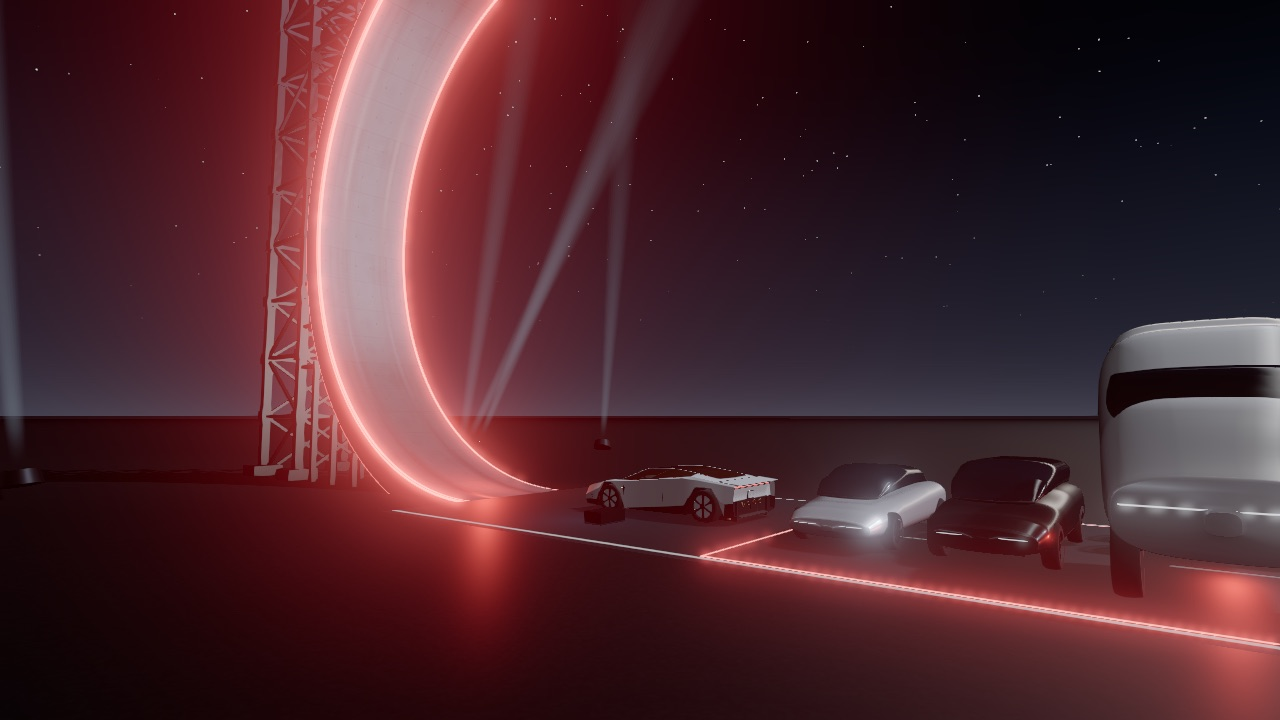
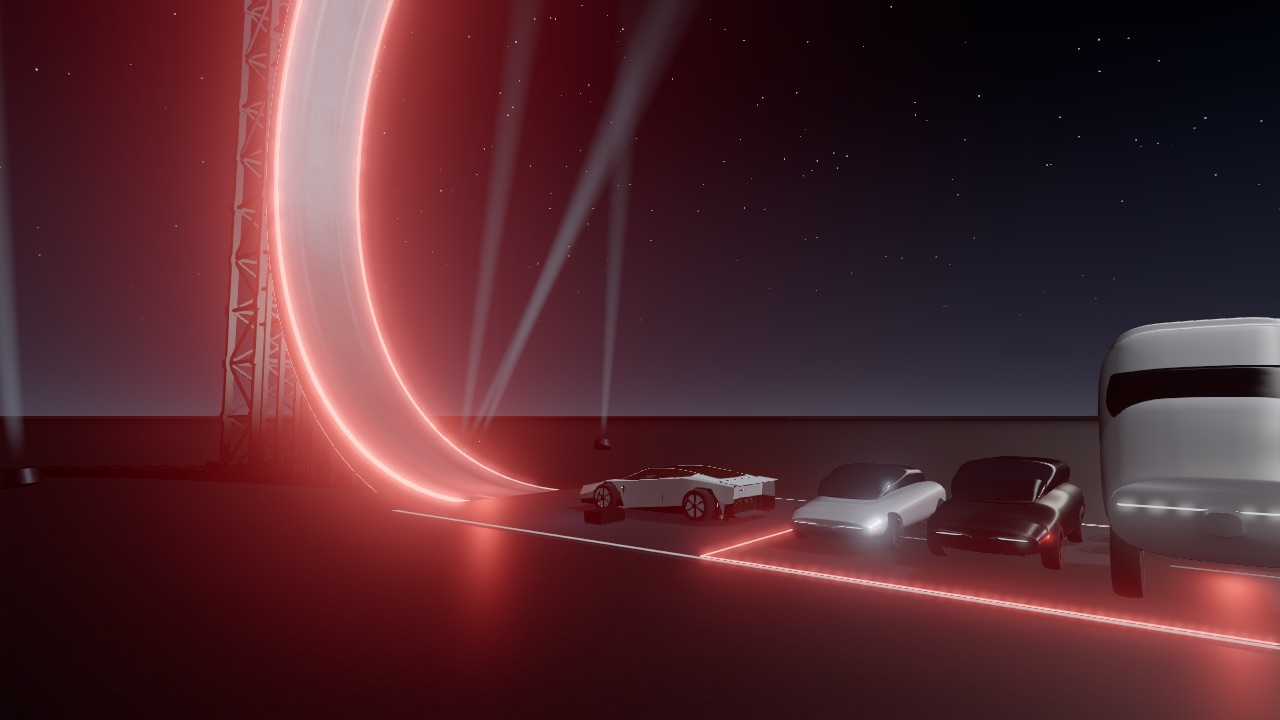
Slivers: opaque padded lights, fixed renderOrder layers for surface decals
Alpha-blended LED strips measured worse at locked-off replay rigs (their edges sorted
against the moving car, mist and plumes). Lights stay opaque and are padded by up to a
pixel under 4 px; paint keeps coverage-faded edges. Decals and lights draw in fixed
negative renderOrder layers, before every free-floating transparent effect. Stills
re-shot against the current main (taller Wall).

Changed region(s): [[0.0625, 0.0, 0.4688, 0.7639], [0.5312, 0.6722, 0.625, 0.7639], [0.4375, 0.6722, 0.5, 0.7028]]

diff --git a/src/render/sliver.js b/src/render/sliver.js
@@ -8,9 +8,9 @@
 // - widens it to at least `minPx` pixels; for lights and paint (`dim`) the colour (or opacity) is
 //   scaled down by the same factor, so the light a strip puts on screen stays the same as it
 //   shrinks into the distance;
-// - for lights and paint under AA_PX wide, pads it by a pixel and fades the edges by pixel
-//   coverage (an analytic anti-aliased line), so a 1–2 px strip doesn't step between one and two
-//   pixels along its length and bead up in the bloom.
+// - under AA_PX wide, pads it by up to a pixel, and for paint fades
+//   the edges by pixel coverage (an analytic anti-aliased line), so a 1–3 px strip doesn't step
+//   between n and n + 1 pixels along its length and bead up in the bloom.
 // Wider than AA_PX on screen (close up) the material draws exactly as before.
 import * as THREE from 'three';
 
@@ -49,15 +49,22 @@ vec3 transformed = vec3( position );
   px = max( px, 1e-5 );
   float w = max( px, uMinPx );                       // the width it should look
   float k = clamp( w / px, 1.0, uMaxK );
-  vSliver = px / ( px * k );                         // light kept constant as it's widened
+  vSliver = 1.0 / k;                                 // light kept constant as it's widened
   vEdge = 0.0; vHalf = 1e4;                          // no edge fade
   #ifdef SLIVER_AA
+    // Paint: drawn half a pixel wider each side, edges faded by pixel coverage.
     if ( uSize <= 0.0 && w < ${AA_PX.toFixed(1)} ) {
-      float kd = clamp( ( w + 1.0 ) / px, 1.0, uMaxK ); // drawn half a pixel wider each side
+      float kd = clamp( ( w + 1.0 ) / px, 1.0, uMaxK );
       vHalf = 0.5 * px * k;
       vEdge = aSide * 0.5 * px * kd;
       k = kd;
     }
+  #endif
+  #ifdef SLIVER_PAD
+    // Lights (opaque): up to a pixel wider under AA_PX (easing to none at AA_PX), so a 1–3 px
+    // strip never steps between n and n + 1 pixels along its length. Not dimmed for the pad:
+    // measured, keeping the strip at full brightness was the steadier of the two.
+    if ( uSize <= 0.0 ) k = clamp( ( w + clamp( ${AA_PX.toFixed(1)} - w, 0.0, 1.0 ) ) / px, 1.0, uMaxK );
   #endif
   transformed = spine + aSpread * k;
 }`;
@@ -66,19 +73,19 @@ varying float vSliver;
 varying float vEdge;
 varying float vHalf;`;
 
-// Patch a material in place. dim: 'color' (lights), 'alpha' (transparent paint) or false (solid
-// structure: just widened, no fade). size (m): treat each mesh as a blob of that diameter (its
-// spread is from the mesh origin) instead of a strip. Lights become alpha-blended so their edges
-// can fade; where fully covered they draw exactly as an opaque material would.
+// Patch a material in place. dim: 'color' (lights: stay opaque, padded), 'alpha' (transparent
+// paint: coverage-faded edges) or false (solid structure: just widened). size (m): treat each mesh
+// as a blob of that diameter (its spread is from the mesh origin) instead of a strip.
+// (Alpha-blended lights were tried and measured worse: blended edges over the moving car and
+// mist added jitter of their own.)
 export function sliver(material, { minPx = 1.25, dim = 'color', maxK = 8, size = 0 } = {}) {
-  const aa = !!dim && size <= 0;
-  if (aa) material.transparent = true;
+  const define = dim === 'alpha' ? '#define SLIVER_AA\n' : dim === 'color' ? '#define SLIVER_PAD\n' : '';
   material.onBeforeCompile = (sh) => {
     sh.uniforms.uHalfView = sliverView;
     sh.uniforms.uMinPx = { value: minPx };
     sh.uniforms.uMaxK = { value: maxK };
     sh.uniforms.uSize = { value: size };
-    sh.vertexShader = (aa ? '#define SLIVER_AA\n' : '') + sh.vertexShader
+    sh.vertexShader = define + sh.vertexShader
       .replace('#include <common>', `#include <common>${VERT_HEAD}`)
       .replace('#include <begin_vertex>', VERT_BODY);
     if (dim) {
@@ -87,7 +94,7 @@ export function sliver(material, { minPx = 1.25, dim = 'color', maxK = 8, size =
         .replace('#include <common>', `#include <common>${FRAG_HEAD}`)
         .replace('#include <color_fragment>', `#include <color_fragment>\n${dim === 'alpha'
           ? `diffuseColor.a *= vSliver * ${cov};`
-          : `diffuseColor.rgb *= vSliver; diffuseColor.a *= ${cov};`}`);
+          : 'diffuseColor.rgb *= vSliver;'}`);
     }
   };
   material.customProgramCacheKey = () => `sliver:${minPx}:${dim}:${maxK}:${size}`;
@@ -150,3 +157,8 @@ export function setSliverAttributes(geo, spread, side) {
 // layer pulls itself forward harder than the surface under it (the slab pushes back: +2/+2, the
 // approach strip −1/−1) and draws after it (renderOrder).
 export const DECAL = { polygonOffset: true, polygonOffsetFactor: -2, polygonOffsetUnits: -4 };
+
+// Draw order for the transparent things that lie on surfaces: before every free-floating effect
+// (mist, plumes, beams, crash smoke: renderOrder ≥ 0), so the camera or car moving never flips
+// their order against those (that popped), and in a fixed order among themselves.
+export const LAYER = { pad: -4, paint: -3, glow: -2, light: -1 };

diff --git a/src/render/wall.js b/src/render/wall.js
@@ -5,7 +5,7 @@
 // centimetre.
 import * as THREE from 'three';
 import { WALL, wallProfile } from '../sim/courses.js';
-import { sliver, spreadAxes, spreadThin, spreadRing, setSliverAttributes, DECAL } from './sliver.js';
+import { sliver, spreadAxes, spreadThin, spreadRing, setSliverAttributes, DECAL, LAYER } from './sliver.js';
 
 const W = WALL.width, T = WALL.slab, L = WALL.length;
 const HK = WALL.lip.y / 19.8;   // lights were aimed on a 19.8 m lip; they follow the real height
@@ -384,7 +384,7 @@ function approach(P) {
   // grazing angles, and they vanished in stripes), kept at least a pixel wide at range.
   const paint = (opacity) => sliver(new THREE.MeshBasicMaterial({ color: 0xdfe3e8, transparent: true, opacity, depthWrite: false, ...DECAL }), { dim: 'alpha', maxK: 64 });
   const white = paint(0.55), faint = paint(0.2);
-  const flat = (geo, mat, x, z, y = 0.006, order = 2) => { const m = new THREE.Mesh(geo, mat); m.rotation.x = -Math.PI / 2; m.position.set(x, y, z); m.renderOrder = order; g.add(m); return m; };
+  const flat = (geo, mat, x, z, y = 0.006, order = LAYER.paint) => { const m = new THREE.Mesh(geo, mat); m.rotation.x = -Math.PI / 2; m.position.set(x, y, z); m.renderOrder = order; g.add(m); return m; };
   for (const sx of [-1, 1]) flat(spreadThin(new THREE.PlaneGeometry(0.1, len)), white, sx * 4.2, (z0 + z1) / 2);
   for (let z = z0 + 3; z < -1; z += 6) flat(spreadThin(new THREE.PlaneGeometry(0.08, 2.6)), faint, 0, z);
   // Distance-to-wall markers every 25 m: a bar and a number, painted on the slab.
@@ -397,7 +397,7 @@ function approach(P) {
     num.rotation.z = Math.PI;
   }
   // Landing target.
-  flat(new THREE.CircleGeometry(P.rings.at(-1) + 0.8, 96), new THREE.MeshBasicMaterial({ color: 0x050607, transparent: true, opacity: 0.45, depthWrite: false, ...DECAL }), P.x, P.z, 0.004, 1);
+  flat(new THREE.CircleGeometry(P.rings.at(-1) + 0.8, 96), new THREE.MeshBasicMaterial({ color: 0x050607, transparent: true, opacity: 0.45, depthWrite: false, ...DECAL }), P.x, P.z, 0.004, LAYER.pad);
   for (const r of P.rings) flat(spreadRing(new THREE.RingGeometry(r - 0.025, r + 0.025, 192), r), white, P.x, P.z, 0.007);
   flat(spreadThin(new THREE.PlaneGeometry(0.05, 3.4)), white, P.x, P.z, 0.008);
   flat(spreadThin(new THREE.PlaneGeometry(3.4, 0.05)), white, P.x, P.z, 0.008);
@@ -413,7 +413,7 @@ function glowDecal(color, r, x, z, power) {
     fragmentShader: 'uniform vec3 uC; uniform float uP; varying vec2 vUv; void main(){ float d = length(vUv - 0.5) * 2.; float a = uP * pow(max(0., 1. - d), 2.2); gl_FragColor = vec4(uC * a, a); }',
   });
   const m = new THREE.Mesh(new THREE.PlaneGeometry(r * 2, r * 2), mat);
-  m.rotation.x = -Math.PI / 2; m.position.set(x, 0.012, z); m.renderOrder = 3;
+  m.rotation.x = -Math.PI / 2; m.position.set(x, 0.012, z); m.renderOrder = LAYER.glow;
   return m;
 }
 
@@ -514,8 +514,11 @@ export function* buildWall(tier, pad = WALL.pad) {
   const led = sliver(new THREE.MeshBasicMaterial({ color: new THREE.Color(5.5, 0.26, 0.36), fog: false, side: THREE.DoubleSide, polygonOffset: true, polygonOffsetFactor: -4, polygonOffsetUnits: -4 }), { minPx: 1.5 });
   const ledDim = new THREE.MeshBasicMaterial({ color: new THREE.Color(1.4, 0.05, 0.08), fog: false });
   for (const sx of [-1, 1]) {
-    group.add(new THREE.Mesh(ribbon(S, sx * (W / 2 - 0.1), sx * (W / 2 - 0.01), 0.008), led));
-    group.add(new THREE.Mesh(sideBand(S, sx * (W / 2 + 0.006), 0.0, 0.07), led));
+    for (const geo of [ribbon(S, sx * (W / 2 - 0.1), sx * (W / 2 - 0.01), 0.008), sideBand(S, sx * (W / 2 + 0.006), 0.0, 0.07)]) {
+      const strip = new THREE.Mesh(geo, led);
+      strip.renderOrder = LAYER.light;
+      group.add(strip);
+    }
     group.add(new THREE.Mesh(edgeTube(S, sx * (W / 2 + 0.005), 0, T - 0.02, 0.016), ledDim));
   }
   // Faint red spill on the concrete next to each strip.
@@ -569,7 +572,7 @@ export function* buildWall(tier, pad = WALL.pad) {
     const fx = new THREE.Mesh(new THREE.BoxGeometry(0.8, 0.3, 0.5), new THREE.MeshStandardMaterial({ color: 0x111215, metalness: 0.6, roughness: 0.4 }));
     fx.position.set(sx * 2.4, 0.15, -5.7); group.add(fx);
     const lens = new THREE.Mesh(spreadThin(new THREE.PlaneGeometry(0.62, 0.18)), sliver(new THREE.MeshBasicMaterial({ color: new THREE.Color(2.4, 2.6, 3) }), { minPx: 1.5 }));
-    lens.position.set(sx * 2.4, 0.2, -5.44); lens.rotation.x = -0.5; group.add(lens);
+    lens.position.set(sx * 2.4, 0.2, -5.44); lens.rotation.x = -0.5; lens.renderOrder = LAYER.light; group.add(lens);
   }
   const red = new THREE.PointLight(0xff1a28, 35, 18, 2);
   red.position.set(0, 1.2, 1.5);

diff --git a/src/render/scene.js b/src/render/scene.js
@@ -12,7 +12,7 @@ import { OutputPass } from 'three/examples/jsm/postprocessing/OutputPass.js';
 import { RAMP, LINEUP, SHOW } from '../sim/courses.js';
 import { makeParked, makeRoadster, lampWhite } from './cars.js';
 import { buildWall, nightSkyMaterial, bakeNightEnvironment, STARS } from './wall.js';
-import { sliver, sliverView, spreadAxes, spreadThin, spreadRing, DECAL } from './sliver.js';
+import { sliver, sliverView, spreadAxes, spreadThin, spreadRing, DECAL, LAYER } from './sliver.js';
 
 const PAD = LINEUP.pad, START_Z = LINEUP.start.z, RUNOUT_Z = LINEUP.runout.zMax;
 
@@ -168,7 +168,7 @@ function linesAndPad() {
   // that stay a pixel wide at range (src/render/sliver.js).
   const paint = (opacity) => sliver(new THREE.MeshBasicMaterial({ color: 0xdfe3e8, transparent: true, opacity, depthWrite: false, ...DECAL }), { dim: 'alpha', maxK: 64 });
   const white = paint(0.6), faint = paint(0.22);
-  const flat = (geo, mat, x, z, y = 0.004, order = 2) => { const m = new THREE.Mesh(geo, mat); m.rotation.x = -Math.PI / 2; m.position.set(x, y, z); m.renderOrder = order; g.add(m); return m; };
+  const flat = (geo, mat, x, z, y = 0.004, order = LAYER.paint) => { const m = new THREE.Mesh(geo, mat); m.rotation.x = -Math.PI / 2; m.position.set(x, y, z); m.renderOrder = order; g.add(m); return m; };
   // Run-up edge lines and a dashed centreline.
   const len = RAMP.z0 - START_Z;
   for (const sx of [-1, 1]) flat(spreadThin(new THREE.PlaneGeometry(0.08, len)), white, sx * 3.6, START_Z + len / 2);
@@ -176,7 +176,7 @@ function linesAndPad() {
   // Distance ticks every 10 m past the lip.
   for (let z = 10; z <= 80; z += 10) flat(spreadThin(new THREE.PlaneGeometry(1.2, 0.05)), faint, 4.6, z);
   // Landing pad: three hairline rings + crosshair + a soft disc.
-  flat(new THREE.CircleGeometry(PAD.rings.at(-1) + 0.6, 96), new THREE.MeshBasicMaterial({ color: 0x0e1014, transparent: true, opacity: 0.35, depthWrite: false, ...DECAL }), PAD.x, PAD.z, 0.003, 1);
+  flat(new THREE.CircleGeometry(PAD.rings.at(-1) + 0.6, 96), new THREE.MeshBasicMaterial({ color: 0x0e1014, transparent: true, opacity: 0.35, depthWrite: false, ...DECAL }), PAD.x, PAD.z, 0.003, LAYER.pad);
   for (const r of PAD.rings) flat(spreadRing(new THREE.RingGeometry(r - 0.022, r + 0.022, 192), r), white, PAD.x, PAD.z, 0.005);
   flat(spreadThin(new THREE.PlaneGeometry(0.04, 3)), white, PAD.x, PAD.z, 0.006);
   flat(spreadThin(new THREE.PlaneGeometry(3, 0.04)), white, PAD.x, PAD.z, 0.006);
@@ -266,7 +266,7 @@ function buildLineup(tier) {
       const pole = new THREE.Mesh(poleGeo, poleMat);
       pole.position.set(sx * 13, 4.5, z); pole.castShadow = tier !== 'low'; group.add(pole);
       const head = new THREE.Mesh(headGeo, headMat);
-      head.position.set(sx * 12.6, 9, z); group.add(head);
+      head.position.set(sx * 12.6, 9, z); head.renderOrder = LAYER.light; group.add(head);
     }
   }
   return {
@@ -303,7 +303,7 @@ function* buildShow(tier) {
 
   const g = new THREE.Group();
   const red = sliver(new THREE.MeshBasicMaterial({ color: new THREE.Color(4.5, 0.2, 0.3), fog: false, ...DECAL }), { minPx: 1.5 });
-  const flat = (geo, mat, x, z, y = 0.004) => { const m = new THREE.Mesh(spreadThin(geo), mat); m.rotation.x = -Math.PI / 2; m.position.set(x, y, z); g.add(m); return m; };
+  const flat = (geo, mat, x, z, y = 0.004) => { const m = new THREE.Mesh(spreadThin(geo), mat); m.rotation.x = -Math.PI / 2; m.position.set(x, y, z); m.renderOrder = LAYER.light; g.add(m); return m; };
   const boxes = SHOW.boxes;
   const minX = Math.min(...boxes.map((b) => b.minX)) - 0.6, maxX = Math.max(...boxes.map((b) => b.maxX)) + 0.6;
   const minZ = Math.min(...boxes.map((b) => b.minZ)) - 0.6, maxZ = Math.max(...boxes.map((b) => b.maxZ)) + 0.6;

diff --git a/docs/LESSONS.md b/docs/LESSONS.md
@@ -18,7 +18,7 @@ Mistakes already paid for. Read before working.
 - **Full throttle up the curl throws the car off the ledge at ≈24 m/s.** That's real and it's the player's call; the naive-show sweep (scripts/naive-show.mjs) shows the spread.
 - **The HTML is served uncompressed.** `no-transform` (which keeps the zone's analytics beacon out) also stops Cloudflare compressing index.html, and the stylesheet is inlined there for first paint. Keep CSS lean, and keep the font faces latin-only. Nothing renders until `stage.ready` (src/render/scene.js), so anything added to the scene after first load is compiled on first sight: warm it with `renderer.compileAsync`.
 - **Decals lose to a slope-scaled offset.** The approach strip used `polygonOffsetFactor: -1`; at grazing angles that pulls it toward the camera by more than the 4 mm the paint sat above it, so the paint flickered and mostly vanished. A layer on top must carry a stronger offset than the layer under it (`DECAL` in src/render/sliver.js), not just a lift. Measure flicker with `scripts/flicker.mjs` (heatmaps with `--heat=dir`) rather than by eye.
-- **Sub-pixel emissive geometry flickers through the bloom.** The composer's HalfFloat target has no MSAA (see above), so a strip under a pixel wide is sampled on and off and bloom spreads every pop. Give such meshes an `aSpread` attribute and a `sliver()` material.
+- **Sub-pixel emissive geometry flickers through the bloom.** The composer's HalfFloat target has no MSAA (see above), so a strip under a pixel wide is sampled on and off and bloom spreads every pop. Give such meshes an `aSpread` attribute and a `sliver()` material. Keep the lights opaque: alpha-blended LED strips measured worse (their blended edges sort against the moving car, mist and plumes).
 - **Where a jet sits is how it flies.** Down-jets behind each wheel aren't symmetric about the CoM, so equal valves pitch the car; the mixer's TRIM cancels that and costs lift. The CoM position (an ESTIMATE) now sets the lift budget: source it before tuning landing feel.
 - **Touching a spec file puts all of it under the flake guard (2026-10-20).** Changing `tests/e2e/smoke.spec.js` made CI repeat every test in it 5× in parallel. The BYOK test, where each click waits on the title's software-GL frames (2–5 s each), then ran past 60 s on 4 of 5 runs. It's just as slow on main. Slow-but-correct tests get `test.slow()` with a comment saying why. Never drop assertions, and don't move a new test to another file to dodge the guard.
 - **Instanced quads need DoubleSide.** The crash sparks are camera-facing streaks built in the vertex shader. Their screen-space winding comes out the same for every spark, so with the default FrontSide every one was culled. The pool was full and nothing showed.

diff --git a/docs/CHANGELOG.md b/docs/CHANGELOG.md
@@ -49,7 +49,7 @@ The car's real geometry in the physics (SIM_VERSION 7), from the body research (
 
 **No more flicker** (render only). `node scripts/flicker.mjs <url> [--engine=webkit] [--phone]` drives the game frame by frame and measures per-pixel temporal jitter by region; the PR has the before/after numbers.
 - The approach paint, the pad rings and the Show's red row outline were losing the depth test to the approach strip (its slope-scaled offset beat their millimetre lift at grazing angles), so they flickered in and out and mostly vanished. Every ground decal now has a stronger offset than the surface under it and a fixed draw order; the camera's near plane is 0.3 m (was 0.1) for 3× the depth precision.
-- Thin bright things (the Wall's LED strips, lamp heads, painted lines) and thin dark ones (truss members, lamp poles, the far tower) keep a minimum on-screen width (`src/render/sliver.js`), dimmed to match, and the bright ones get anti-aliased edges below 4 px, so they no longer step, bead or pop in and out of the bloom at range. Close up they draw exactly as before.
+- Thin bright things (the Wall's LED strips, lamp heads, painted lines) and thin dark ones (truss members, lamp poles, the far tower) keep a minimum on-screen width (`src/render/sliver.js`), dimmed to match; under 4 px the lights are padded by up to a pixel and the paint gets coverage-faded edges, so they no longer step, bead or pop in and out of the bloom at range. Close up they draw exactly as before. Surface decals and lights draw before mist, plumes and smoke (fixed `renderOrder` layers).
 - The key light's shadow camera snaps to whole shadow-map texels, so shadow edges don't crawl as the car moves.
 - The deck's bump map fades out where a pixel spans many bump texels (it sparkled at range); stars are round dots with soft edges, not pixel squares that twinkled; the Lineup's beacon ramps on and off.
 
